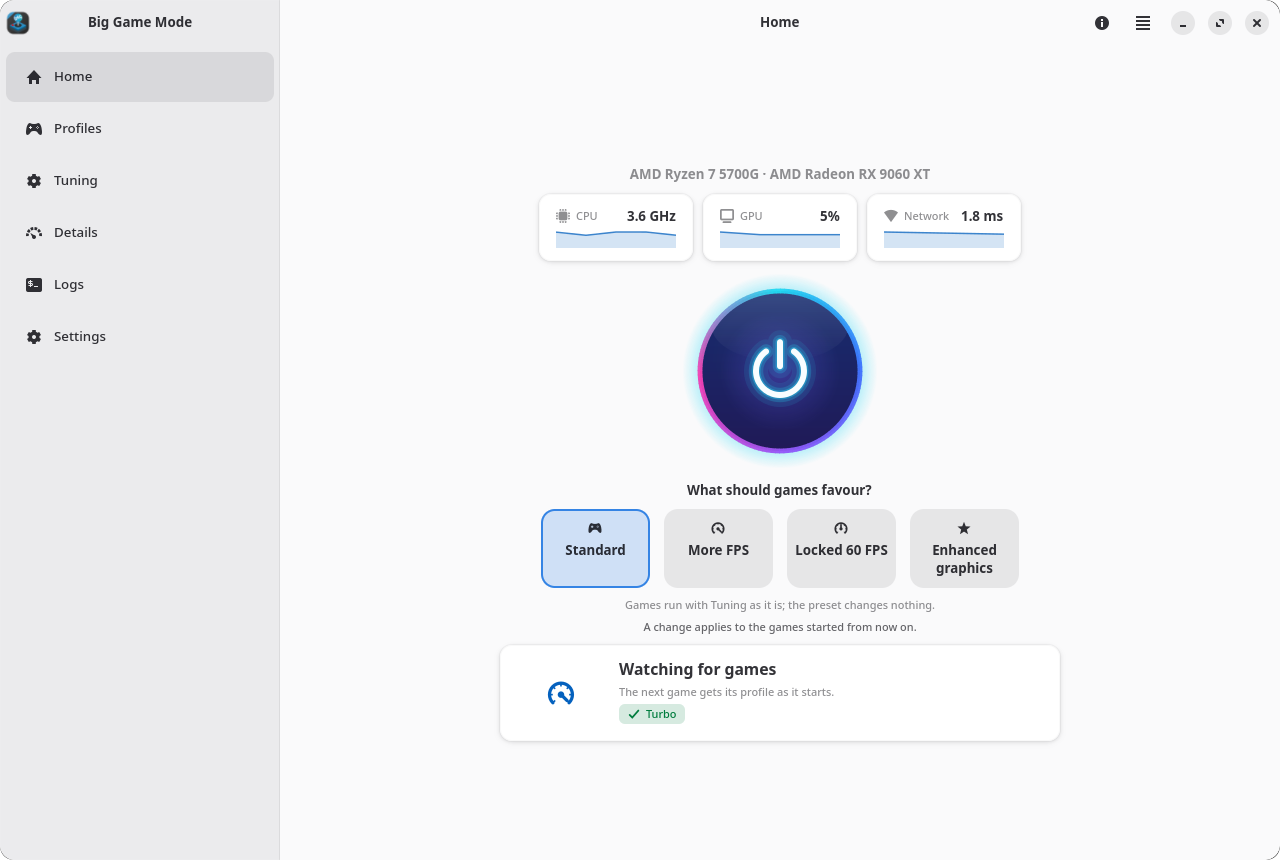
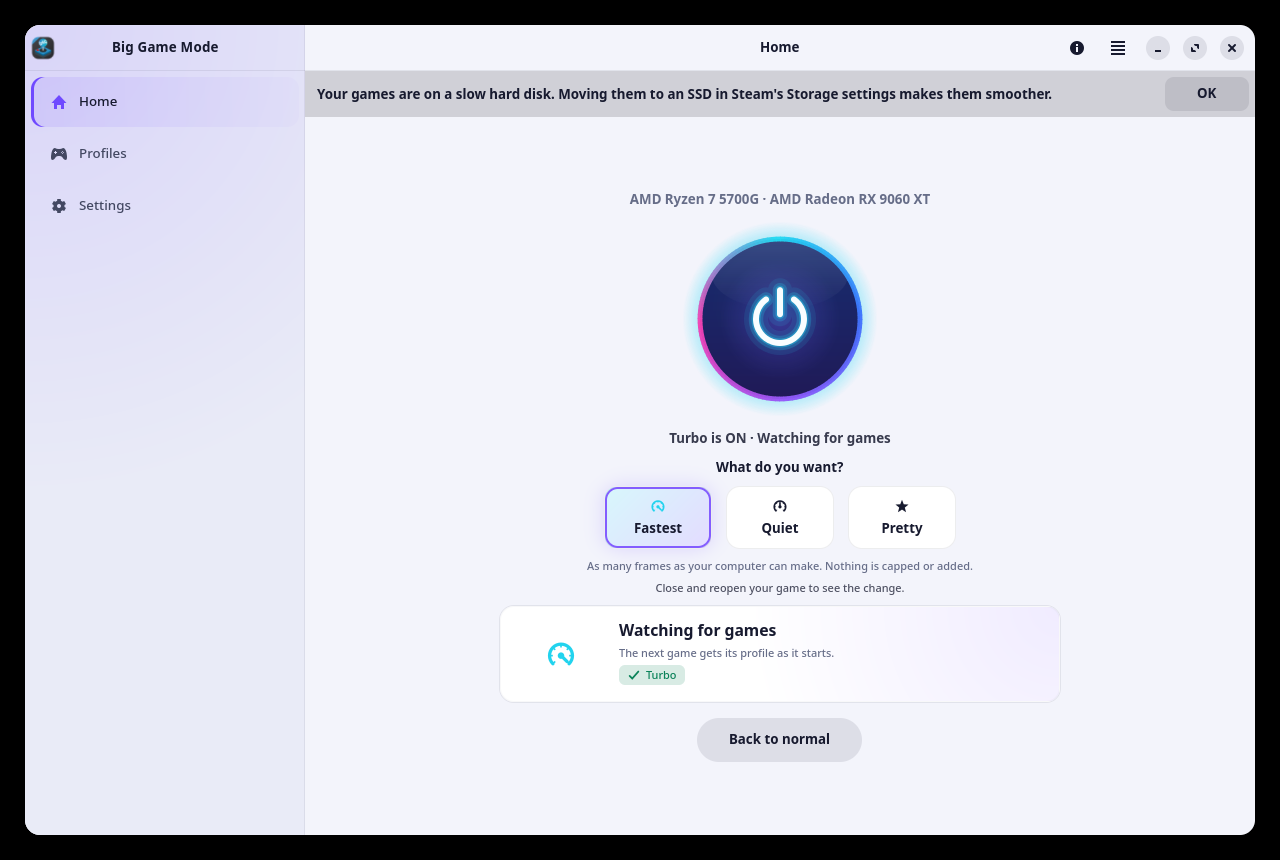
docs: screenshots of 2.4.0
Home in simple mode (Turbo in words, the three choices, the hard-disk tip
and Back to normal), dark and light; Profiles with Play on the cards;
Settings with the Advanced group.

Changed region(s): [[0.0, 0.0, 1.0, 1.0], [0.4062, 0.1814, 0.7812, 0.907]]

diff --git a/README.md b/README.md
@@ -26,7 +26,7 @@ what is really in effect.
 
 <picture>
   <source media="(prefers-color-scheme: light)" srcset="docs/screenshots/home-light.png">
-  <img src="docs/screenshots/home.png" width="860" alt="Big Game Mode's Home page with the Turbo button and its presets">
+  <img src="docs/screenshots/home.png" width="860" alt="Big Game Mode's Home page in simple mode: Turbo in words, three choices and Back to normal">
 </picture>
 
 </div>
@@ -275,11 +275,11 @@ Closing the window keeps Big Game Mode in the tray, with Turbo, the presets and
 
 <table>
 <tr>
-<td width="50%"><img src="docs/screenshots/profiles.png" alt="Profiles: the library of installed games"></td>
+<td width="50%"><img src="docs/screenshots/profiles.png" alt="Profiles: the library of installed games, each with Play"></td>
 <td width="50%"><img src="docs/screenshots/tuning.png" alt="Tuning: performance, Gamescope, image quality and frame generation"></td>
 </tr>
 <tr>
-<td align="center"><b>Profiles</b>: every installed game, each with its profile</td>
+<td align="center"><b>Profiles</b>: every installed game, Play on each</td>
 <td align="center"><b>Tuning</b>: what the machine cannot do is shown as such</td>
 </tr>
 <tr>
@@ -292,11 +292,11 @@ Closing the window keeps Big Game Mode in the tray, with Turbo, the presets and
 </tr>
 <tr>
 <td><img src="docs/screenshots/logs.png" alt="Logs: every source a game session depends on"></td>
-<td><img src="docs/screenshots/settings.png" alt="Settings: theme, background start, notifications and falcond"></td>
+<td><img src="docs/screenshots/settings.png" alt="Settings: theme, background start, notifications and advanced options"></td>
 </tr>
 <tr>
 <td align="center"><b>Logs</b>: every source, filtered</td>
-<td align="center"><b>Settings</b>: Default and Gamer themes, light or dark</td>
+<td align="center"><b>Settings</b>: themes, and the switch for advanced options</td>
 </tr>
 <tr>
 <td colspan="2" align="center"><img src="docs/screenshots/about.png" width="430" alt="About Big Game Mode"></td>
